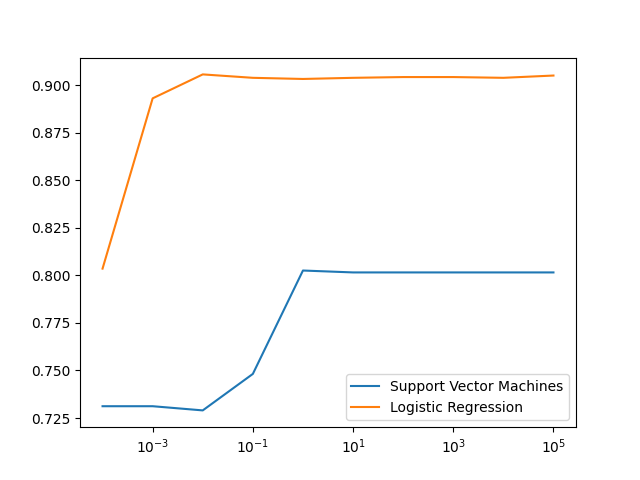
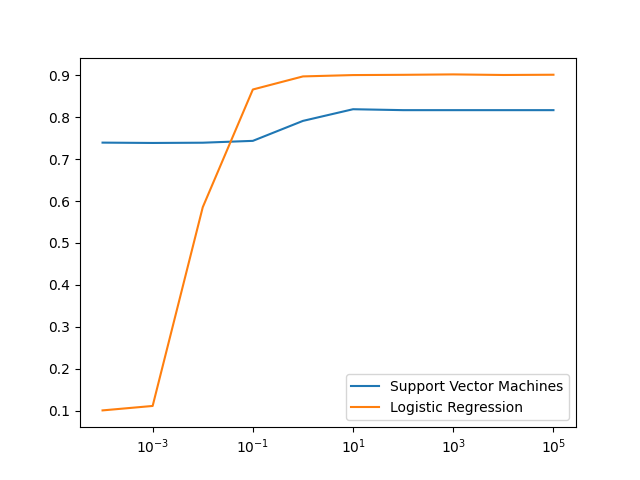
Results

diff --git a/training.py b/training.py
@@ -186,7 +186,7 @@ digits_scaled = scaler.fit_transform(new_digits)
 
 
 #train and test set split 
-x_train, x_test, y_train, y_test = train_test_split(digits, labels, test_size = 37/42, stratify=labels)
+x_train, x_test, y_train, y_test = train_test_split(digits_scaled, labels, test_size = 37/42, stratify=labels)
 
 # cross = LogisticRegressionCV(Cs=[1e-4, 1e-3, 1e-2, 1e-1, 1, 1e1, 1e2, 1e3, 1e4],penalty="l1", solver="saga",tol=0.001, multi_class="multinomial", max_iter=5,
 #                              verbose=2, n_jobs=8).fit(digits_scaled, labels)
@@ -214,10 +214,11 @@ cvalues = [0.0001, 0.001, 0.01, 0.1, 1.0, 10.0, 100.0, 1000.0, 10000.0, 100000.0
 for l in range(-4,6):
     c = pow(10,l)
     i = 0
-    classifierLR = LogisticRegression(penalty="l1", C=c, solver="saga", tol=0.001, multi_class="multinomial",
-                                        max_iter=15)
+    classifierLR = LogisticRegression(penalty="l1", C=c, solver="saga",
+                                      tol=0.001, multi_class="multinomial",
+                                        max_iter=10000)
 
-    classifierSVC = SVC(C = c, tol = 0.001, max_iter=15)
+    classifierSVC = SVC(C = c, tol = 0.001, max_iter=10000)
     classifiers.append(classifierSVC)
     classifiers.append(classifierLR)
     accuracySVC = 0
